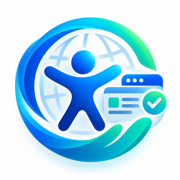
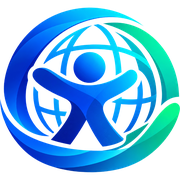
feat: update WebForAll branding across the platform

diff --git a/components/BrandLogo.tsx b/components/BrandLogo.tsx
@@ -57,7 +57,7 @@ export default function BrandLogo({
           width={effectiveIconSize}
           height={effectiveIconSize}
           priority={priority}
-          className="rounded-full shadow-subtle object-contain overflow-hidden"
+          className="object-contain"
           style={{ width: `${effectiveIconSize}px`, height: `${effectiveIconSize}px` }}
         />
       </div>
@@ -68,7 +68,7 @@ export default function BrandLogo({
 
   return (
     <div className={`inline-flex items-center gap-2.5 sm:gap-3 flex-shrink-0 ${className}`}>
-      {/* Icon-Only Logo Graphic */}
+      {/* Icon-Only Official Brand Logo Graphic */}
       <div className="relative inline-flex items-center justify-center flex-shrink-0">
         <Image
           src="/brand/webforall-icon.png"
@@ -77,7 +77,7 @@ export default function BrandLogo({
           width={effectiveIconSize}
           height={effectiveIconSize}
           priority={priority}
-          className="rounded-full shadow-subtle object-contain overflow-hidden"
+          className="object-contain"
           style={{ width: `${effectiveIconSize}px`, height: `${effectiveIconSize}px` }}
         />
       </div>

diff --git a/app/layout.tsx b/app/layout.tsx
@@ -39,8 +39,8 @@ export const metadata: Metadata = {
     images: [
       {
         url: '/brand/webforall-full-logo.png',
-        width: 1024,
-        height: 512,
+        width: 1200,
+        height: 630,
         alt: 'WebForAll — A More Accessible Web for Everyone',
       },
     ],
